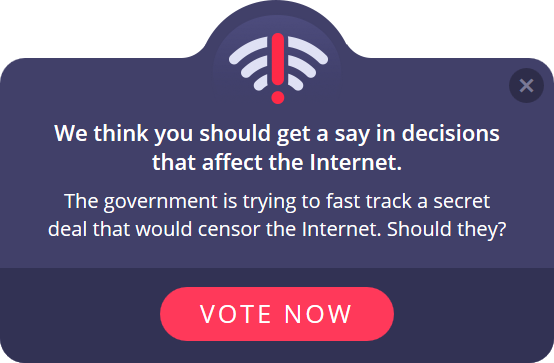
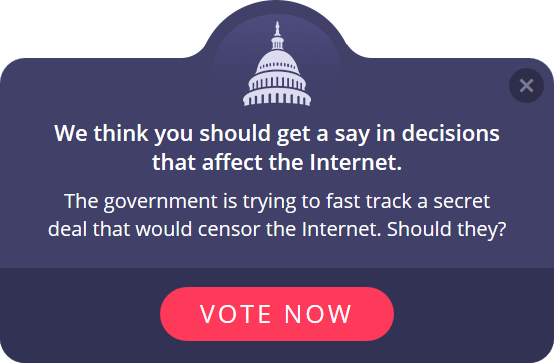
added capitol modal image

Changed region(s): [[0.3989, 0.0606, 0.6137, 0.303]]

diff --git a/widget.min.js b/widget.min.js
@@ -1,1 +1,1 @@
-!function(){var a="https://fightforthefuture.github.io/internet-vote-widget/iframe";"undefined"==typeof _iv_options&&(_iv_options={}),"undefined"==typeof _iv_options.iframe_base_path&&(_iv_options.iframe_base_path=a),"undefined"==typeof _iv_options.animation&&(_iv_options.animation="modal"),"undefined"==typeof _iv_options.delay&&(_iv_options.delay=0),"undefined"==typeof _iv_options.debug&&(_iv_options.debug=!1),"undefined"==typeof _iv_options.always_show_widget&&(_iv_options.always_show_widget=!1);var b={modal:{options:{modalAnimation:"modal"},init:function(a){for(var b in a)this.options[b]=a[b];return this},start:function(){var a="#_iv_iframe { position: fixed; left: 0px; top: 0px; 				width: 100%; height: 100%; z-index: 100001; }";c.injectCSS("_iv_iframe_css",a);var b=c.createIframe(this.options.modalAnimation);c.bindIframeCommunicator(b,this)},stop:function(){c.destroyIframe()}}},c={injectCSS:function(a,b){var c=document.createElement("style");c.type="text/css",c.id=a,c.styleSheet?c.styleSheet.cssText=b:c.appendChild(document.createTextNode(b)),document.head.appendChild(c)},createIframe:function(a){var b=document.createElement("iframe");return b.id="_iv_iframe",b.src=_iv_options.iframe_base_path+"/"+a+".html",b.frameBorder=0,b.allowTransparency=!0,b.style.display="none",document.body.appendChild(b),b},destroyIframe:function(){var a=document.getElementById("_iv_iframe");a.parentNode.removeChild(a)},bindIframeCommunicator:function(a,b){var c=function(b,c){c||(c={}),c.requestType=b,c.IV_WIDGET_MSG=!0,c.HOST_NAME=g,a.contentWindow.postMessage(c,"*")},d=window.addEventListener?"addEventListener":"attachEvent",e=window[d],f="attachEvent"==d?"onmessage":"message",g=this.getHostname();e(f,function(d){if(d.data&&d.data.IV_IFRAME_MSG)switch(delete d.data.IV_IFRAME_MSG,d.data.requestType){case"getAnimation":a.style.display="block",c("putAnimation",b.options);break;case"stop":b.stop()}},!1)},setCookie:function(a,b,c){var d=new Date;d.setTime(d.getTime()+24*c*60*60*1e3);var e="expires="+d.toGMTString();document.cookie=a+"="+b+"; "+e},getCookie:function(a){for(var b=a+"=",c=document.cookie.split(";"),d=0;d<c.length;d++){var e=c[d].trim();if(0==e.indexOf(b))return e.substring(b.length,e.length)}return""},getHostname:function(){var a=window.location.host.replace("www.","");return a},log:function(){_iv_options.debug&&console.log.apply(console,arguments)}},d=function(){function a(){for(i=0;i<a.arguments.length;i++)e[i]=new Image,e[i].src=_iv_options.iframe_base_path+"/images/"+a.arguments[i],e[i].onload=function(){f++,f==e.length&&setTimeout(function(){var a=b[_iv_options.animation];a.init(_iv_options).start()},_iv_options.delay)}}var d=window.location.href.indexOf("SHOW_IV_WIDGET")>-1;if(_iv_options.always_show_widget||0!=d||!c.getCookie("_IV_WIDGET_SHOWN")){if(c.setCookie("_IV_WIDGET_SHOWN","true",365),"undefined"==typeof b[_iv_options.animation])return c.log("Animation undefined: "+_iv_options.animation);var e=new Array,f=0;a("idl.png","modal_header.png","wifi.png")}},e=document.readyState;"complete"==e||"loaded"==e||"interactive"==e?d():document.addEventListener&&document.addEventListener("DOMContentLoaded",d,!1)}();
+!function(){var a="https://fightforthefuture.github.io/internet-vote-widget/iframe";"undefined"==typeof _iv_options&&(_iv_options={}),"undefined"==typeof _iv_options.iframe_base_path&&(_iv_options.iframe_base_path=a),"undefined"==typeof _iv_options.animation&&(_iv_options.animation="modal"),"undefined"==typeof _iv_options.delay&&(_iv_options.delay=0),"undefined"==typeof _iv_options.debug&&(_iv_options.debug=!1),"undefined"==typeof _iv_options.always_show_widget&&(_iv_options.always_show_widget=!1);var b={modal:{options:{modalAnimation:"modal"},init:function(a){for(var b in a)this.options[b]=a[b];return this},start:function(){var a="#_iv_iframe { position: fixed; left: 0px; top: 0px; 				width: 100%; height: 100%; z-index: 100001; }";c.injectCSS("_iv_iframe_css",a);var b=c.createIframe(this.options.modalAnimation);c.bindIframeCommunicator(b,this)},stop:function(){c.destroyIframe()}}},c={injectCSS:function(a,b){var c=document.createElement("style");c.type="text/css",c.id=a,c.styleSheet?c.styleSheet.cssText=b:c.appendChild(document.createTextNode(b)),document.head.appendChild(c)},createIframe:function(a){var b=document.createElement("iframe");return b.id="_iv_iframe",b.src=_iv_options.iframe_base_path+"/"+a+".html",b.frameBorder=0,b.allowTransparency=!0,b.style.display="none",document.body.appendChild(b),b},destroyIframe:function(){var a=document.getElementById("_iv_iframe");a.parentNode.removeChild(a)},bindIframeCommunicator:function(a,b){var c=function(b,c){c||(c={}),c.requestType=b,c.IV_WIDGET_MSG=!0,c.HOST_NAME=g,a.contentWindow.postMessage(c,"*")},d=window.addEventListener?"addEventListener":"attachEvent",e=window[d],f="attachEvent"==d?"onmessage":"message",g=this.getHostname();e(f,function(d){if(d.data&&d.data.IV_IFRAME_MSG)switch(delete d.data.IV_IFRAME_MSG,d.data.requestType){case"getAnimation":a.style.display="block",c("putAnimation",b.options);break;case"stop":b.stop()}},!1)},setCookie:function(a,b,c){var d=new Date;d.setTime(d.getTime()+24*c*60*60*1e3);var e="expires="+d.toGMTString();document.cookie=a+"="+b+"; "+e},getCookie:function(a){for(var b=a+"=",c=document.cookie.split(";"),d=0;d<c.length;d++){var e=c[d].trim();if(0==e.indexOf(b))return e.substring(b.length,e.length)}return""},getHostname:function(){var a=window.location.host.replace("www.","");return a},log:function(){_iv_options.debug&&console.log.apply(console,arguments)}},d=function(){function a(){for(i=0;i<a.arguments.length;i++)e[i]=new Image,e[i].src=_iv_options.iframe_base_path+"/images/"+a.arguments[i],e[i].onload=function(){f++,f==e.length&&setTimeout(function(){var a=b[_iv_options.animation];a.init(_iv_options).start()},_iv_options.delay)}}var d=window.location.href.indexOf("SHOW_IV_WIDGET")>-1;if(_iv_options.always_show_widget||0!=d||!c.getCookie("_IV_WIDGET_SHOWN")){if(c.setCookie("_IV_WIDGET_SHOWN","true",365),"undefined"==typeof b[_iv_options.animation])return c.log("Animation undefined: "+_iv_options.animation);var e=new Array,f=0;a("idl.png","modal_header.png","capitol.png")}},e=document.readyState;"complete"==e||"loaded"==e||"interactive"==e?d():document.addEventListener&&document.addEventListener("DOMContentLoaded",d,!1)}();

diff --git a/iframe/css/min/modal.min.css b/iframe/css/min/modal.min.css
@@ -1,1 +1,1 @@
-body{margin:0px;padding:0px;background:transparent;height:100%;font-family:'Open Sans',sans-serif;color:white}#overlay{position:fixed;left:0px;top:0px;width:100%;height:100%;background:rgba(0,0,0,0.7);opacity:0;display:none;-ms-transition:opacity .75s ease-out;-o-transition:opacity .75s ease-out;-moz-transition:opacity .75s ease-out;-webkit-transition:opacity .75s ease-out;transition:opacity .75s ease-out}#overlay.visible{opacity:1}#overlay.visible>div #modal{margin-top:0px}#overlay>div{display:table-cell;vertical-align:middle}#overlay>div #modal{width:554px;min-height:250px;margin:0px auto;background:white;margin-top:-100px;background:#414069;position:relative;border-radius:25px;box-shadow:0 0 80px rgba(0,0,0,0.3);-ms-transition:margin-top .75s ease-out;-o-transition:margin-top .75s ease-out;-moz-transition:margin-top .75s ease-out;-webkit-transition:margin-top .75s ease-out;transition:margin-top .75s ease-out}#overlay>div #modal.embedded{margin-top:0px}#overlay>div #modal .header{position:absolute;left:50%;margin-left:-95px;top:-58px;z-index:2;width:189px;height:58px;background:url(../../images/modal_header.png)}#overlay>div #modal .icon{position:absolute;left:50%;margin-left:-66px;top:-45px;width:132px;height:126px;background:url(../../images/wifi.png);z-index:3}#overlay>div #modal h1{margin:0px;padding:60px 45px 0px 45px;font-weight:600;font-size:22px;line-height:29px;text-align:center}#overlay>div #modal p{margin:0px;padding:10px 45px 0px 45px;font-size:20px;line-height:28px;text-align:center}#overlay>div #modal .footer{background:#323254;-webkit-border-bottom-right-radius:25px;-webkit-border-bottom-left-radius:25px;-moz-border-radius-bottomright:25px;-moz-border-radius-bottomleft:25px;border-bottom-right-radius:25px;border-bottom-left-radius:25px;text-align:center;padding:19px 0px 22px 0px;margin-top:26px}#overlay>div #modal .footer a{display:inline-block;height:54px;background:#ff395a;border-radius:100px;text-align:center;padding:0px 40px;text-transform:uppercase;letter-spacing:3px;font-size:25px;color:white;text-decoration:none;line-height:54px}#overlay>div #modal .footer a:hover{background:#ef294a}#overlay>div #modal a.close{position:absolute;right:10px;top:10px;cursor:pointer;color:#fff;border-radius:30px;background:black;font-size:31px;font-weight:bold;display:inline-block;line-height:23px;text-align:center;width:35px;height:35px;text-decoration:none;opacity:.3;z-index:9002}#overlay>div #modal a.close:hover{opacity:.45}#overlay>div #modal a.close:before{line-height:32px;content:"×"}a.idl{position:absolute;display:block;bottom:15px;right:15px;width:300px;height:41px;background:url(../../images/idl.png);background-size:300px 41px;z-index:9001;opacity:.6;-ms-transition:opacity .2s ease-out;-o-transition:opacity .2s ease-out;-moz-transition:opacity .2s ease-out;-webkit-transition:opacity .2s ease-out;transition:opacity .2s ease-out}a.idl:hover{opacity:1}
+body{margin:0px;padding:0px;background:transparent;height:100%;font-family:'Open Sans',sans-serif;color:white}#overlay{position:fixed;left:0px;top:0px;width:100%;height:100%;background:rgba(0,0,0,0.7);opacity:0;display:none;-ms-transition:opacity .75s ease-out;-o-transition:opacity .75s ease-out;-moz-transition:opacity .75s ease-out;-webkit-transition:opacity .75s ease-out;transition:opacity .75s ease-out}#overlay.visible{opacity:1}#overlay.visible>div #modal{margin-top:0px}#overlay>div{display:table-cell;vertical-align:middle}#overlay>div #modal{width:554px;min-height:250px;margin:0px auto;background:white;margin-top:-100px;background:#414069;position:relative;border-radius:25px;box-shadow:0 0 80px rgba(0,0,0,0.3);-ms-transition:margin-top .75s ease-out;-o-transition:margin-top .75s ease-out;-moz-transition:margin-top .75s ease-out;-webkit-transition:margin-top .75s ease-out;transition:margin-top .75s ease-out}#overlay>div #modal.embedded{margin-top:0px}#overlay>div #modal .header{position:absolute;left:50%;margin-left:-95px;top:-58px;z-index:2;width:189px;height:58px;background:url(../../images/modal_header.png)}#overlay>div #modal .icon{position:absolute;left:50%;margin-left:-67px;top:-45px;width:132px;height:126px;background:url(../../images/capitol.png);background-repeat:no-repeat;z-index:3}#overlay>div #modal h1{margin:0px;padding:60px 45px 0px 45px;font-weight:600;font-size:22px;line-height:29px;text-align:center}#overlay>div #modal p{margin:0px;padding:10px 45px 0px 45px;font-size:20px;line-height:28px;text-align:center}#overlay>div #modal .footer{background:#323254;-webkit-border-bottom-right-radius:25px;-webkit-border-bottom-left-radius:25px;-moz-border-radius-bottomright:25px;-moz-border-radius-bottomleft:25px;border-bottom-right-radius:25px;border-bottom-left-radius:25px;text-align:center;padding:19px 0px 22px 0px;margin-top:26px}#overlay>div #modal .footer a{display:inline-block;height:54px;background:#ff395a;border-radius:100px;text-align:center;padding:0px 40px;text-transform:uppercase;letter-spacing:3px;font-size:25px;color:white;text-decoration:none;line-height:54px}#overlay>div #modal .footer a:hover{background:#ef294a}#overlay>div #modal a.close{position:absolute;right:10px;top:10px;cursor:pointer;color:#fff;border-radius:30px;background:black;font-size:31px;font-weight:bold;display:inline-block;line-height:23px;text-align:center;width:35px;height:35px;text-decoration:none;opacity:.3;z-index:9002}#overlay>div #modal a.close:hover{opacity:.45}#overlay>div #modal a.close:before{line-height:32px;content:"×"}a.idl{position:absolute;display:block;bottom:15px;right:15px;width:300px;height:41px;background:url(../../images/idl.png);background-size:300px 41px;z-index:9001;opacity:.6;-ms-transition:opacity .2s ease-out;-o-transition:opacity .2s ease-out;-moz-transition:opacity .2s ease-out;-webkit-transition:opacity .2s ease-out;transition:opacity .2s ease-out}a.idl:hover{opacity:1}

diff --git a/iframe/css/modal.less b/iframe/css/modal.less
@@ -73,11 +73,12 @@ body {
             .icon {
                 position: absolute;
                 left: 50%;
-                margin-left: -66px;
+                margin-left: -67px;
                 top: -45px;
                 width: 132px;
                 height: 126px;
-                background: url(../../images/wifi.png);
+                background: url(../../images/capitol.png);
+                background-repeat: no-repeat;
                 z-index: 3;
             }
 

diff --git a/widget.js b/widget.js
@@ -260,7 +260,7 @@ var ready = function() {
 	preload(
 		'idl.png',
 		'modal_header.png',
-		'wifi.png'
+		'capitol.png'
 	);
 }
 
